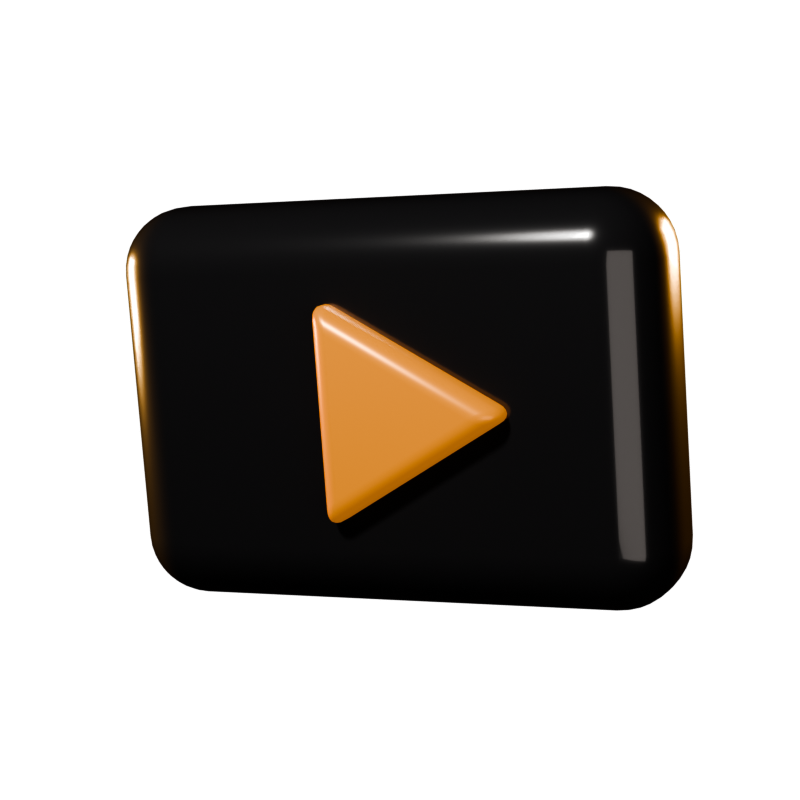
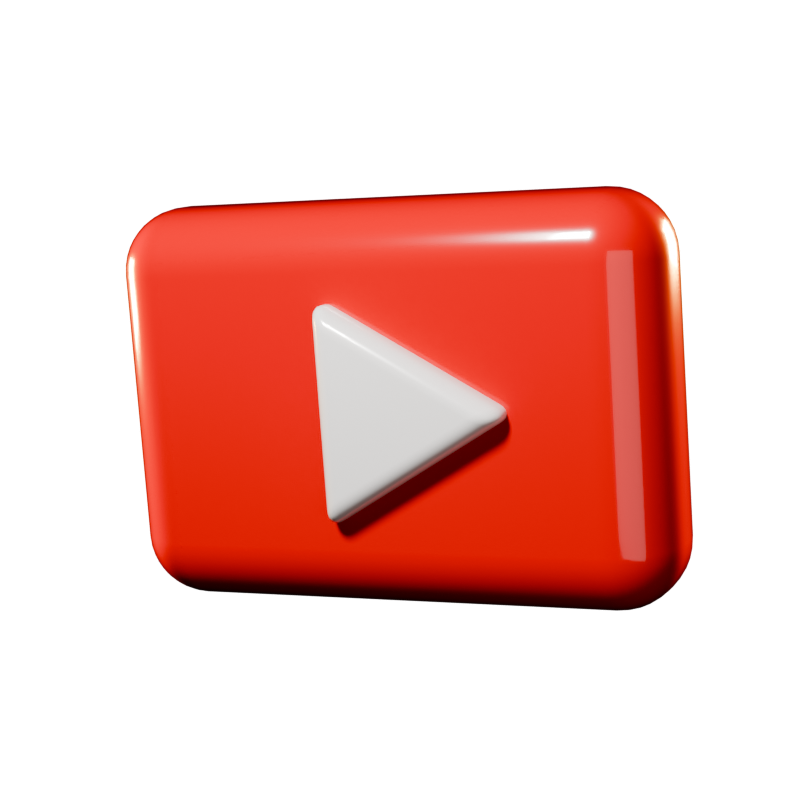
3D-объекты в естественных цветах: голубая снежинка, красный Play, деревянные часы; знак вопроса на опрос
Claude-Session: https://claude.ai/code/session_017hf3L4BTdgApmuuhorvyzN

diff --git a/scripts/render3d.py b/scripts/render3d.py
@@ -47,9 +47,9 @@ def light(name, loc, energy, color, size):
 
 
 def studio():
-    light('key', (-3, -5, 4), 500, (1, 0.97, 0.94), 0.8)        # мягкий белый сверху-слева
-    light('rimR', (4, 3, 1.5), 2200, (1, 0.45, 0.08), 1.5)    # оранжевый контур справа-сзади
-    light('rimL', (-4, 2.5, 0.5), 1200, (1, 0.5, 0.12), 1.2)   # оранжевый контур слева-сзади
+    light('key', (-3, -5, 4), 900, (1, 0.97, 0.94), 1.2)        # мягкий белый сверху-слева
+    light('rimR', (4, 3, 1.5), 1500, (1, 0.45, 0.08), 1.5)    # оранжевый контур справа-сзади
+    light('rimL', (-4, 2.5, 0.5), 800, (1, 0.5, 0.12), 1.2)   # оранжевый контур слева-сзади
     light('fill', (2, -5, -1), 60, (1, 0.9, 0.85), 4)        # чуть подсветить низ
 
 
@@ -73,6 +73,29 @@ def mat_orange(glow=0.35):
     p.inputs['Emission Color'].default_value = ORANGE
     p.inputs['Emission Strength'].default_value = glow
     return m
+
+
+def mat_color(rgb, rough=0.2, metal=0.0, coat=0.6, glow=0.0, name='c'):
+    """Материал в естественном цвете предмета (снег — голубой, YouTube — красный, дерево — коричневое…)."""
+    m = bpy.data.materials.new(name); m.use_nodes = True
+    p = m.node_tree.nodes['Principled BSDF']
+    p.inputs['Base Color'].default_value = (*rgb, 1)
+    p.inputs['Roughness'].default_value = rough
+    p.inputs['Metallic'].default_value = metal
+    p.inputs['Coat Weight'].default_value = coat
+    p.inputs['Coat Roughness'].default_value = 0.05
+    if glow:
+        p.inputs['Emission Color'].default_value = (*rgb, 1)
+        p.inputs['Emission Strength'].default_value = glow
+    return m
+
+
+ICE = (0.05, 0.32, 1.0)
+ICE_LIGHT = (0.45, 0.78, 1.0)
+YT_RED = (0.75, 0.01, 0.01)
+WHITE = (0.92, 0.92, 0.92)
+WOOD = (0.07, 0.025, 0.007)
+SAND = (0.9, 0.42, 0.08)
 
 
 def mat_glass():
@@ -136,11 +159,11 @@ def build_snowflake():
     me = bpy.data.meshes.new('snow'); bm.to_mesh(me); bm.free()
     o = bpy.data.objects.new('snow', me); bpy.context.scene.collection.objects.link(o)
     bevel(o, 0.035, 4)
-    o.data.materials.append(mat_black())
+    o.data.materials.append(mat_color(ICE, rough=0.12, coat=1.0, glow=0.12, name='ice'))
     bpy.context.view_layer.objects.active = o; o.select_set(True)
     bpy.ops.object.shade_smooth()
     bpy.ops.mesh.primitive_cylinder_add(vertices=6, radius=0.16, depth=0.2, location=(0, 0, 0.02))
-    hub = bpy.context.active_object; bevel(hub, 0.03, 3); hub.data.materials.append(mat_orange())
+    hub = bpy.context.active_object; bevel(hub, 0.03, 3); hub.data.materials.append(mat_color(ICE_LIGHT, rough=0.1, coat=1.0, glow=0.15, name='ice2'))
     for x in (o, hub):  # поставить лицом к камере (плоскость XZ)
         x.rotation_euler = (math.radians(90), 0, 0)
     return [o, hub], dict(rot=(math.radians(-14), 0, math.radians(-24)))
@@ -168,10 +191,10 @@ def build_play():
     """Кнопка Play в стиле бренда: чёрная скруглённая плитка, оранжевый треугольник."""
     bpy.ops.mesh.primitive_cube_add(size=1); b = bpy.context.active_object
     b.scale = (1.5, 0.38, 1.05); bpy.ops.object.transform_apply(scale=True)
-    bevel(b, 0.17, 10); b.data.materials.append(mat_black()); bpy.ops.object.shade_smooth()
+    bevel(b, 0.17, 10); b.data.materials.append(mat_color(YT_RED, rough=0.18, coat=1.0, name='red')); bpy.ops.object.shade_smooth()
     bpy.ops.mesh.primitive_cylinder_add(vertices=3, radius=0.34, depth=0.14, location=(0.05, -0.2, 0),
                                         rotation=(math.radians(90), math.radians(90), 0))
-    tri = bpy.context.active_object; bevel(tri, 0.05, 6); tri.data.materials.append(mat_orange())
+    tri = bpy.context.active_object; bevel(tri, 0.05, 6); tri.data.materials.append(mat_color(WHITE, rough=0.25, coat=0.5, name='white'))
     bpy.ops.object.shade_smooth()
     return [b, tri], dict(rot=(math.radians(10), 0, math.radians(-24)))
 
@@ -181,11 +204,11 @@ def build_hourglass():
     objs = []
     for z in (1.0, -1.0):
         bpy.ops.mesh.primitive_cylinder_add(vertices=64, radius=0.62, depth=0.14, location=(0, 0, z))
-        c = bpy.context.active_object; bevel(c, 0.04, 4); c.data.materials.append(mat_black()); objs.append(c)
+        c = bpy.context.active_object; bevel(c, 0.04, 4); c.data.materials.append(mat_color(WOOD, rough=0.35, coat=0.8, name='wood')); objs.append(c)
     for k in range(3):
         a = k * 2 * math.pi / 3 + 0.4
         bpy.ops.mesh.primitive_cylinder_add(vertices=24, radius=0.04, depth=2.0, location=(0.5 * math.cos(a), 0.5 * math.sin(a), 0))
-        s = bpy.context.active_object; s.data.materials.append(mat_black()); objs.append(s)
+        s = bpy.context.active_object; s.data.materials.append(mat_color(WOOD, rough=0.35, coat=0.8, name='wood2')); objs.append(s)
     bm = bmesh.new()  # стекло — тело вращения
     prof = [(0.03, 0), (0.18, 0.12), (0.42, 0.45), (0.47, 0.75), (0.4, 0.93)]
     vs = [bm.verts.new((r, 0, -z)) for r, z in reversed(prof)] + [bm.verts.new((r, 0, z)) for r, z in prof[1:]]
@@ -197,9 +220,9 @@ def build_hourglass():
     g.data.materials.append(mat_glass()); objs.append(g)
     bpy.context.view_layer.objects.active = g; g.select_set(True); bpy.ops.object.shade_smooth()
     bpy.ops.mesh.primitive_cone_add(vertices=64, radius1=0.4, radius2=0.03, depth=0.42, location=(0, 0, -0.68))
-    sand = bpy.context.active_object; sand.data.materials.append(mat_orange()); objs.append(sand)
+    sand = bpy.context.active_object; sand.data.materials.append(mat_color(SAND, rough=0.8, coat=0, name='sand')); objs.append(sand)
     bpy.ops.mesh.primitive_cone_add(vertices=64, radius1=0.03, radius2=0.3, depth=0.3, location=(0, 0, 0.32))
-    top = bpy.context.active_object; top.data.materials.append(mat_orange()); objs.append(top)
+    top = bpy.context.active_object; top.data.materials.append(mat_color(SAND, rough=0.8, coat=0, name='sand2')); objs.append(top)
     return objs, dict(rot=(math.radians(6), 0, math.radians(15)), lens=70)
 
 

diff --git a/знания/обложки.md b/знания/обложки.md
@@ -27,18 +27,18 @@
 Лежат в `assets/cover/objects/`, ставятся `--obj имя:x:y:высота[:угол]` (пустые поля рендера срезаются сами,
 заголовок сам сдвигается от предмета).
 
-**Свои, Blender** (`scripts/render3d.py`: чёрный глянец + оранжевый контур, прозрачный фон, чистый край):
-- `snowflake` — снежинка (зима, праздники)
-- `question` — знак вопроса с оранжевой точкой (вопросы, опросы, «почему»)
-- `play` — чёрная кнопка Play с оранжевым треугольником (ролики, видео, YouTube в нашем стиле)
-- `hourglass` — песочные часы (время, сроки, «нет времени», дедлайны)
+**Свои, Blender** (`scripts/render3d.py`: естественный цвет вещи, глянец, мягкий оранжевый контурный свет, прозрачный фон, чистый край):
+- `snowflake` — голубая ледяная снежинка (зима, праздники)
+- `question` — чёрный знак вопроса с оранжевой точкой (опросы — Алексею нравится, вопросы, «почему»)
+- `play` — красная кнопка Play с белым треугольником, как YouTube (ролики, видео, YouTube)
+- `hourglass` — песочные часы: коричневое дерево, стекло, песок (время, сроки, «нет времени»)
 Новый объект под тему = новая функция `build_<имя>()` в `scripts/render3d.py`
 (Blender: `/home/user/bpy-venv/bin/python`, установка — в начале файла).
 
 **Вырезанные из старых обложек** (только чистые): `trophy`, `trophy_2` (кубок с F), `youtube` (красная 3D-кнопка).
 Не использовать (обрубки, ореолы, смаз): `coin_f`, `coin_f_2`, `people`, `servers`, `pen` — переделать в Blender.
 
-**Правила выбора:** предмет строго по смыслу поста; не повторять предмет в подряд идущих постах (смотреть последние
+**Правила выбора:** предмет строго по смыслу поста и в естественном цвете вещи (константы цветов — в начале `render3d.py`); не повторять предмет в подряд идущих постах (смотреть последние
 обложки в `посты/`); нет подходящего — сделать в Blender, а не ставить «что есть».
 
 ## Эмодзи

diff --git a/.claude/skills/посты-телеграм/правила.md b/.claude/skills/посты-телеграм/правила.md
@@ -17,6 +17,9 @@
 - 28.11 — Картинка строго по смыслу поста. Нет подходящей в библиотеке — сделать самому (Blender / вырезать
   из своих исходников), а не ставить «что есть».
 - 28.11 — Вырезать красиво: ровный чистый край, без ореолов фона, обрубков и «тяп-ляп». Сомнительный вырез не ставить.
+- 28.11 — Цвет предмета — естественный, по самой вещи: снежинка голубая, YouTube/Play красный с белым,
+  песочные часы — коричневое дерево и песок и т.д. Не красить всё в чёрный. Знак вопроса (чёрный + оранжевая точка)
+  Алексею зашёл — ставить на опросы.
 
 ## Журнал (разовые правки по конкретным постам)
 - 28.11 — Пост 30.11 «Уютные зимние истории»: по просьбе убрали готовый промпт, оставили только тренд.
